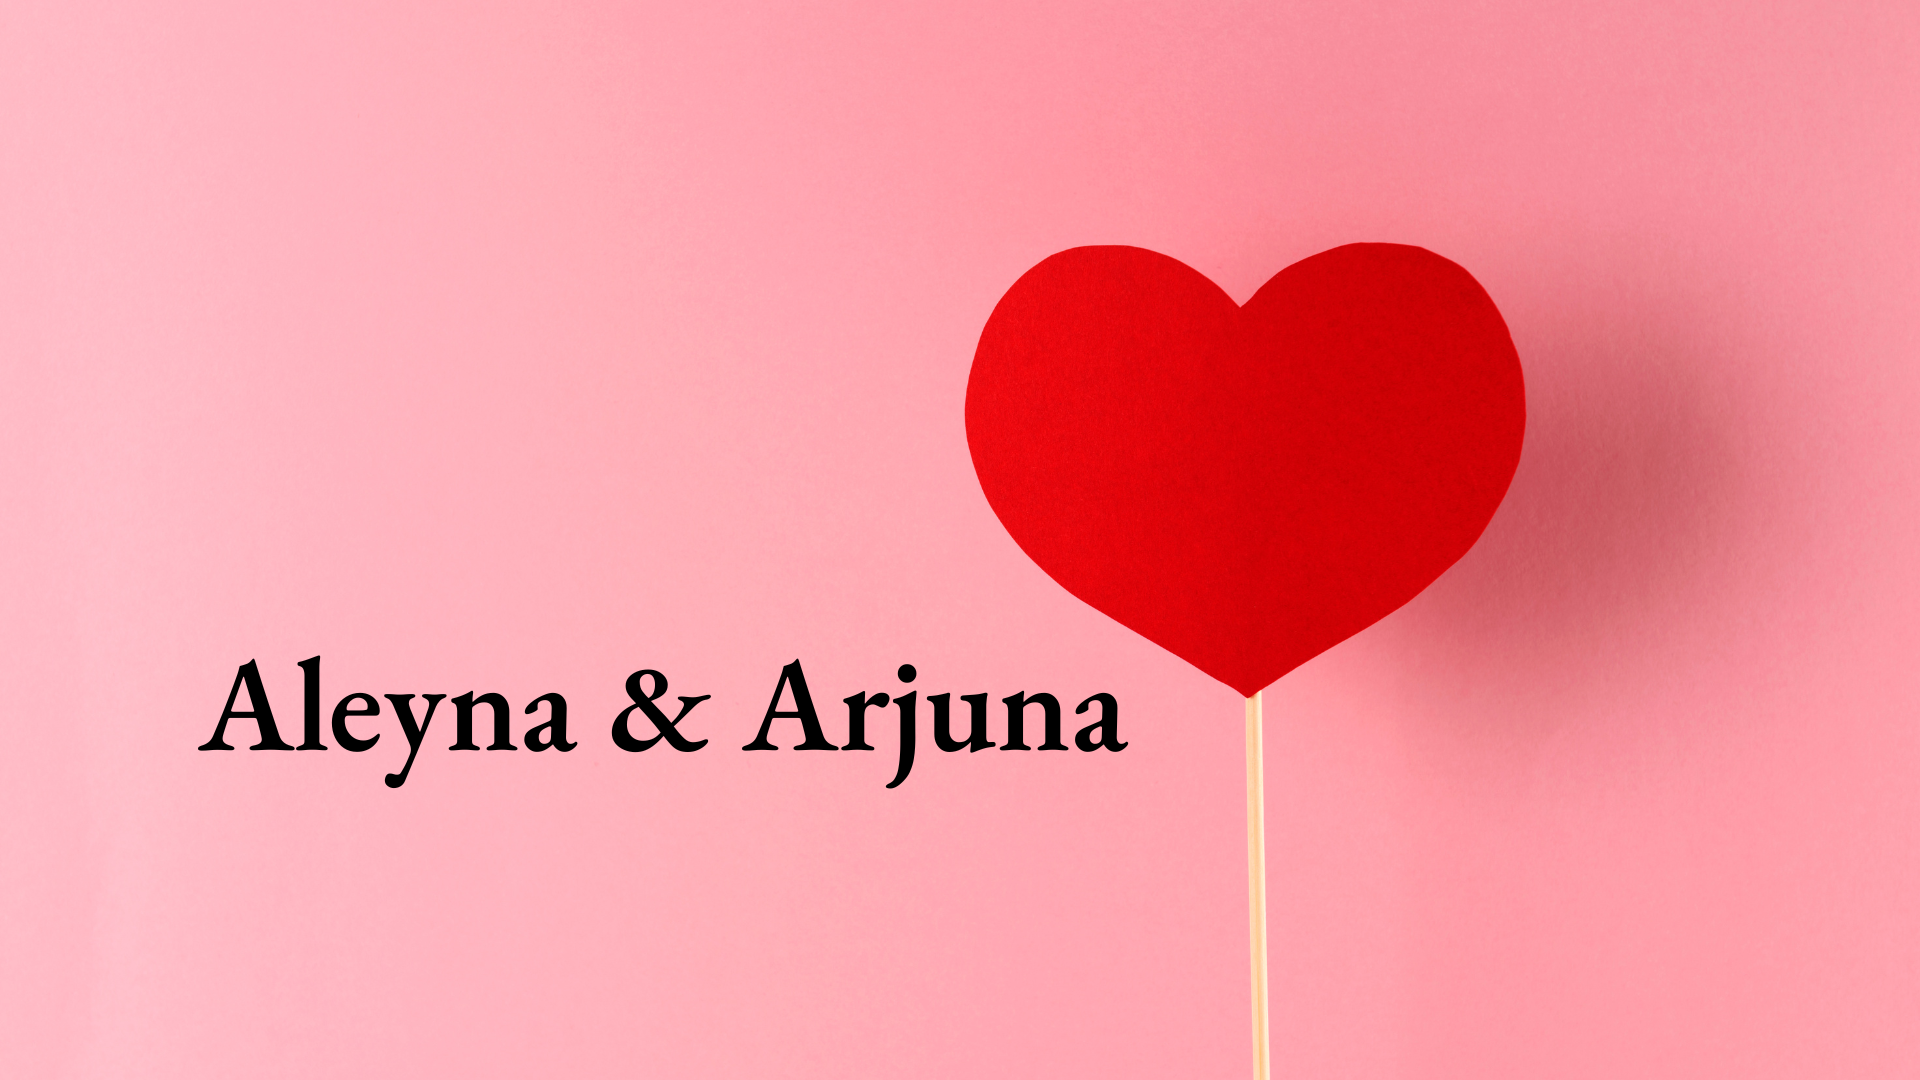
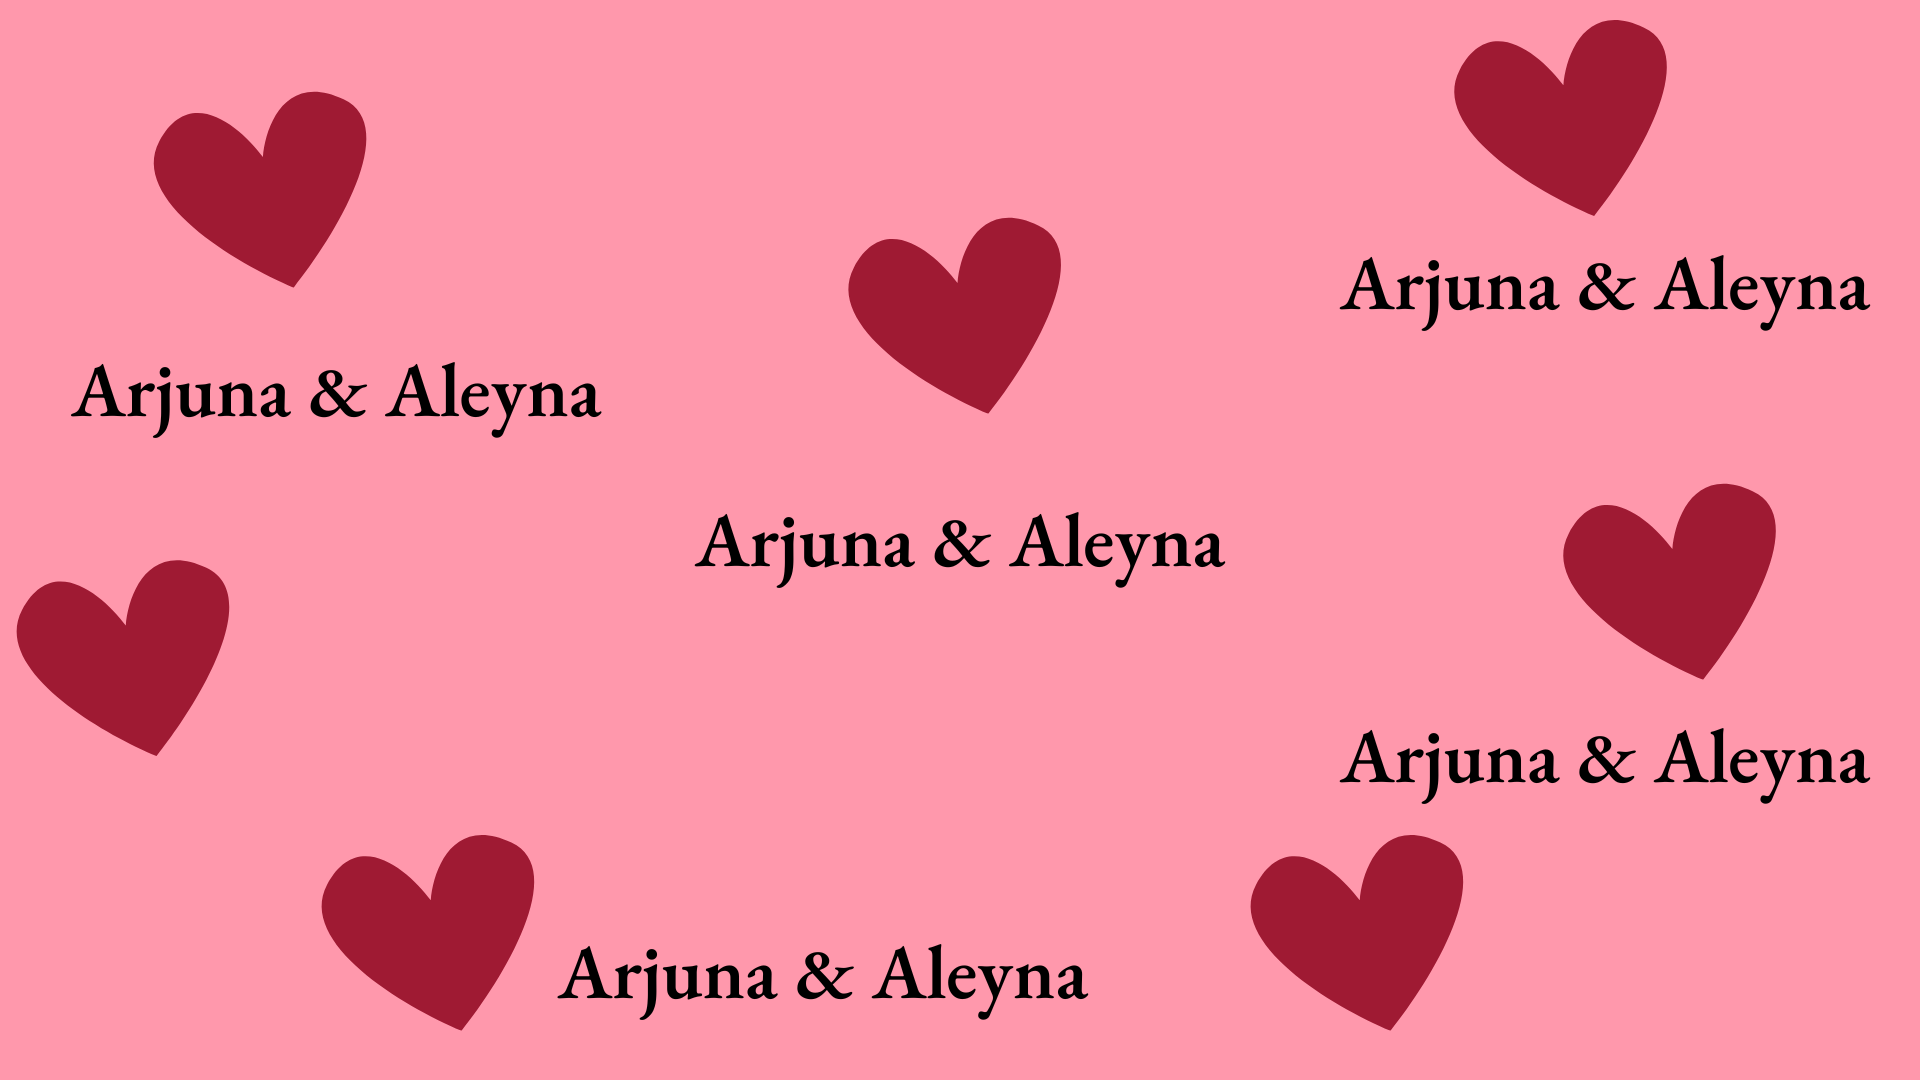
perbaikin repeat background

diff --git a/game.html b/game.html
@@ -4,8 +4,10 @@
   <meta charset="UTF-8" />
   <meta name="viewport" content="width=device-width, initial-scale=1.0"/>
   <title>Puzzle</title>
+  <script src="https://cdn.jsdelivr.net/npm/canvas-confetti@1.6.0/dist/confetti.browser.min.js"></script>
   <link href="https://cdn.jsdelivr.net/npm/bootstrap@5.3.6/dist/css/bootstrap.min.css" rel="stylesheet" />
   <link href="https://cdn.jsdelivr.net/npm/bootstrap-icons/font/bootstrap-icons.css" rel="stylesheet" />
+  <link href="https://fonts.googleapis.com/css2?family=EB+Garamond&display=swap" rel="stylesheet">
   <style>
     html, body {
       height: 100%;
@@ -145,7 +147,13 @@
 </head>
 <body>
   <div class="center-container">
-    <h1>Selesaikan Puzzle Ini</h1>
+    <div class="card" style="border-radius: 25px; margin-bottom: 10px; background-color: rgba(255, 255, 255, 0.5); backdrop-filter: blur(4px);">
+        <div class="card-body">
+            <div class="card-text d-flex align-items-center text-center">
+                <p style="margin: 0; font-size: 20px; font-weight: bold;">Selesaikan Puzzle Ini!</p>
+            </div>
+        </div>
+    </div>
     <button onclick="resetPuzzle()">Acak Ulang</button>
     <div class="game-container">
       <div id="puzzle-board" class="grid"></div>
@@ -161,7 +169,7 @@
     <div id="popup" class="popup hidden">
       <div class="popup-content">
         <span class="close-btn" onclick="closePopup()">❌</span>
-        <h2>Jadi, apa jawabannya?</h2>
+        <h4>Kamu mau gak jadi cowok aku?</h4>
         <div>
           <button id="yes-btn">Ya</button>
           <button id="no-btn">Tidak</button>
@@ -326,6 +334,24 @@
     }
 
     resetPuzzle();
+
+    document.getElementById("yes-btn").addEventListener("click", function () {
+      closePopup(); // Tutup popup dulu
+
+      setTimeout(() => {
+        // Baru tampilkan confetti setelah popup ditutup
+        confetti({
+          particleCount: 150,
+          spread: 100,
+          origin: { y: 0.6 }
+        });
+
+        // Tambahkan alert setelah confetti
+        setTimeout(() => {
+          alert("Yeay! Kita resmi jadian! 💖");
+        }, 500);
+      }, 300); // Delay sebentar agar popup sempat tertutup
+    });
   </script>
 </body>
 </html>

diff --git a/index.html b/index.html
@@ -17,7 +17,7 @@
     body{
       background-image: url('img/background.png');
       background-size: cover;       /* Biar gambar nutup semua */
-      background-repeat: no-repeat; /* Jangan ulang */
+      background-repeat: repeat; /* Jangan ulang */
       background-position: center;  /* Tengahin gambar */
       cursor: url('img/kursor.png') 20 20, auto;
       font-family: "EB Garamond", serif;

diff --git a/home.html b/home.html
@@ -15,7 +15,7 @@
         body {
             background-image: url('img/background.png');
             background-size: cover;
-            background-repeat: no-repeat;
+            background-repeat: repeat;
             background-position: center;
             cursor: url('img/kursor.png') 20 20, auto;
             font-family: "EB Garamond", serif;

diff --git a/menu.html b/menu.html
@@ -16,7 +16,7 @@
         body {
             background-image: url('img/background.png');
             background-size: cover;
-            background-repeat: no-repeat;
+            background-repeat: repeat;
             background-position: center;
             cursor: url('img/kursor.png') 20 20, auto;
             font-family: "EB Garamond", serif;

diff --git a/chat.html b/chat.html
@@ -16,7 +16,7 @@
     body {
       background-image: url('img/background.png');
       background-size: cover;
-      background-repeat: no-repeat;
+      background-repeat: repeat;
       background-position: center;
       cursor: url('img/kursor.png') 20 20, auto;
       font-family: "EB Garamond", serif;
